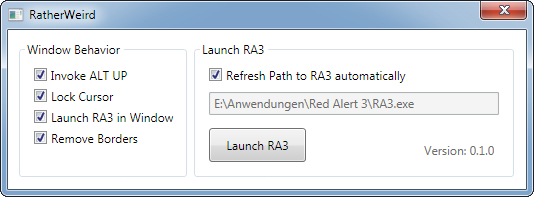
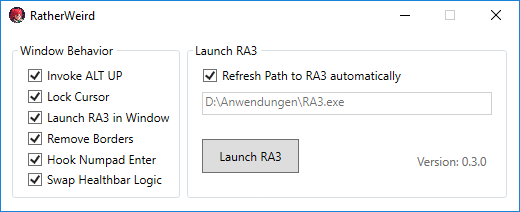
Update version and prepare for release

diff --git a/RatherWeird/RatherWeird/MainWindow.xaml b/RatherWeird/RatherWeird/MainWindow.xaml
@@ -36,7 +36,7 @@
                 <CheckBox x:Name="chRefreshPathToRa3" Content="Refresh Path to RA3 automatically" HorizontalAlignment="Left" VerticalAlignment="Top" Click="chRefreshPathToRa3_Click" Margin="10,10,0,0"/>
                 <TextBox x:Name="txtRa3Path" HorizontalAlignment="Left" Height="23" Margin="10,9,0,0" TextWrapping="Wrap" VerticalAlignment="Top" Width="290" TextChanged="txtRa3Path_TextChanged" IsEnabled="False" Grid.Row="1"/>
                 <Button x:Name="btnLaunchRa3" Content="Launch RA3" HorizontalAlignment="Left" Margin="10,1,0,0" Width="97" Cursor="" Click="btnLaunchRa3_Click" Grid.Row="2" Height="34" VerticalAlignment="Top"/>
-                <Label x:Name="lblVersion" Content="Version: 0.2.0" Margin="0,10,10,0" Grid.Row="2" IsEnabled="False" Height="26" VerticalAlignment="Top" HorizontalAlignment="Right" Width="80"/>
+                <Label x:Name="lblVersion" Content="Version: 0.3.0" Margin="0,10,10,0" Grid.Row="2" IsEnabled="False" Height="26" VerticalAlignment="Top" HorizontalAlignment="Right" Width="80"/>
             </Grid>
         </GroupBox>
     </Grid>

diff --git a/README.md b/README.md
@@ -7,6 +7,7 @@
 * Remove Windows Border around game
 * Lock mouse cursor in RA3 window
 * Numpad Enter Hook (When pressing Enter on the numpad, simulate Enter on the main keyboard)
+* Swap Healthbar logic (Healthbars can be shown automatically on start)
 
 ## Todo
 * (Re-) Add borders around window to move it around

diff --git a/CHANGELOG.md b/CHANGELOG.md
@@ -1,7 +1,10 @@
 # RatherWeird Changelog
 
-## ?? [??]
-### Stuff Fixed
+## 0.3.0 [2017-11-10]
+### Added
+* Swap the default healthbar behavior. Now automatically shows them if desired.
+
+### Fixed
 * RA3 process is launched in a Thread, making the UI *NOT* freeze.
 
 ## 0.2.0 [2017-06-03]
